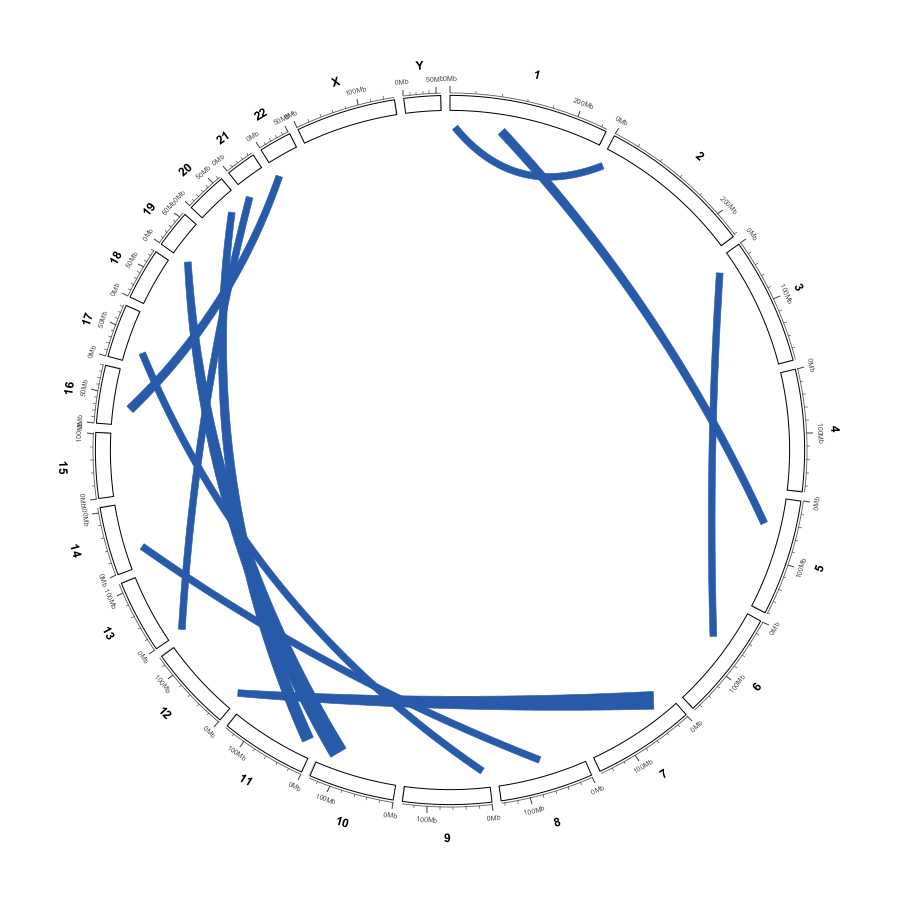
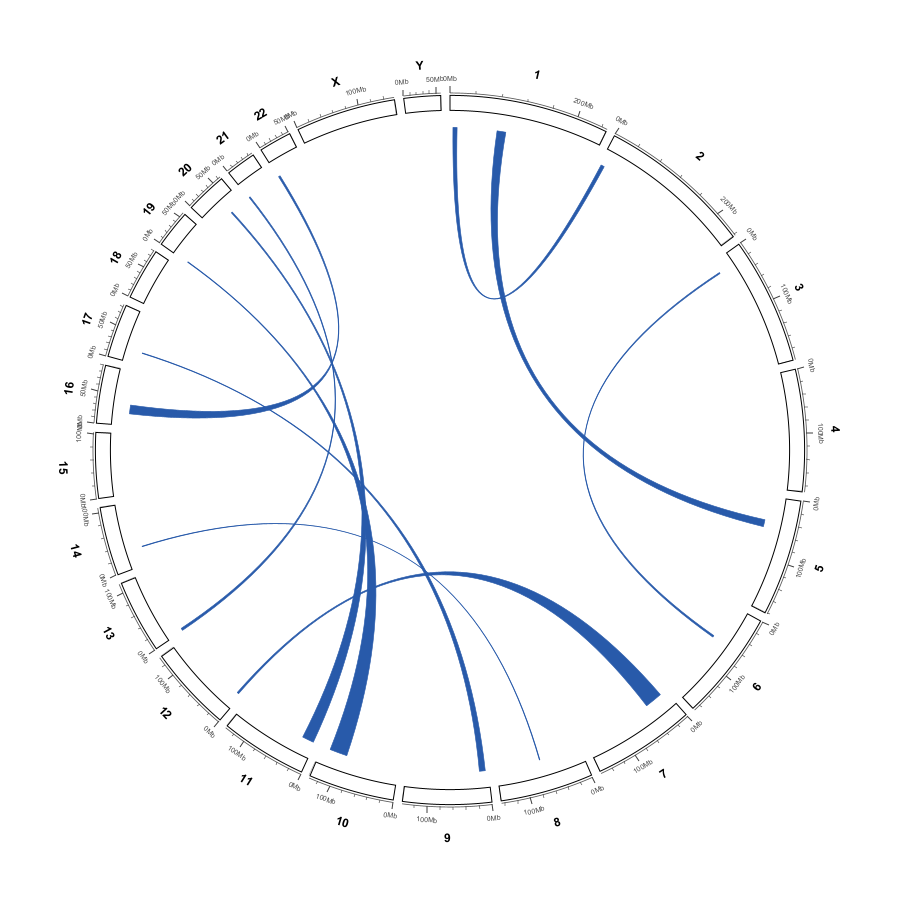
Circular links: draw ribbons exactly like circlize circos.link
Previous constant-pixel-width band looked wrong. Port circlize's real geometry (R/link.R getQuadraticPoints + rbind(d1,r2,rev(d2),r1)): the ribbon is a polygon bounded by two independent quadratic Bezier edges that bow toward the centre, closed by the two end arcs. Width at each end is the interval's own arc, so 1 bp anchors taper to a tip (circlize behaviour) instead of a blunt stub. Heights use circlize defaults h=auto, h.ratio=0.5, w=1; twist maps to circlize inverse (swap edge pairing). Bezier radius/purity now apply to stroked chords only. Docs + four screenshots regenerated to match.

diff --git a/src/main/java/org/broad/igv/ui/panel/CircularViewPanel.java b/src/main/java/org/broad/igv/ui/panel/CircularViewPanel.java
@@ -3384,24 +3384,17 @@ public class CircularViewPanel extends JPanel implements IGVEventObserver {
             g2.setColor(new Color(base.getRed(), base.getGreen(), base.getBlue(), alpha));
 
             if (ribbon) {
-                double[] e1 = ribbonEnd(a1s, a1e, s.linkRibbonMinDeg);
-                double[] e2 = ribbonEnd(a2s, a2e, s.linkRibbonMinDeg);
-                boolean wantStart = s.linkArrow == 1 || s.linkArrow == 3;
-                boolean wantEnd = s.linkArrow == 2 || s.linkArrow == 3;
-                // An interval end gets the flared head built into the polygon; a point end of a
-                // mixed link gets a thin triangle on the curve instead.
-                boolean bandArrowStart = wantStart && !point1;
-                boolean bandArrowEnd = wantEnd && !point2;
-                Path2D.Double path = ribbonBand(cx, cy, rEnd, rBez,
-                        clamp01(s.linkBezierPurity), e1, e2, s.linkTwist,
-                        bandArrowStart, bandArrowEnd, Math.max(3.0, s.linkArrowLength));
+                // circlize-style ribbon: two quadratic-Bezier edges + the two end arcs. The raw
+                // interval spans are used (no min-width floor) so a 1 bp anchor tapers to a point,
+                // exactly like circos.link.
+                Path2D.Double path = ribbonBand(cx, cy, rEnd, s.linkTwist, a1s, a1e, a2s, a2e);
                 g2.fill(path);
-                if (s.linkArrow > 0 && (point1 || point2)) {
+                if (s.linkArrow > 0) {
+                    double[] e1 = ribbonEnd(a1s, a1e, s.linkRibbonMinDeg);
+                    double[] e2 = ribbonEnd(a2s, a2e, s.linkRibbonMinDeg);
                     drawLinkArrows(g2, cx, cy, rEnd, e1, e2, point1, point2, s);
                 }
                 if (s.linkRibbonStroke && s.linkRibbonStrokeThickness > 0) {
-                    // A tapered band is only a few pixels wide mid-span; the outline keeps that
-                    // thin section from washing out against the white background.
                     int strokeAlpha = Math.min(255, alpha + 85);
                     g2.setStroke(new BasicStroke(s.linkRibbonStrokeThickness,
                             BasicStroke.CAP_ROUND, BasicStroke.JOIN_ROUND));
@@ -3481,74 +3474,88 @@ public class CircularViewPanel extends JPanel implements IGVEventObserver {
     }
 
     /**
-     * Filled ribbon built the way circlize's {@code circos.link} builds it, but with a CONSTANT
-     * PIXEL width along its whole length (a true band) instead of a constant *angular* width.
+     * Filled ribbon built the way circlize's {@code circos.link} builds it (see circlize
+     * {@code R/link.R}: {@code getQuadraticPoints()} plus the {@code rbind(d1, r2, rev(d2), r1)}
+     * polygon assembly), so it looks like a real Circos link instead of a constant-width band.
      *
-     * <p>A constant angular width is what made every long link pinch to a needle at mid-span:
-     * the band dips toward the centre, and a fixed angle there spans fewer pixels, so the middle
-     * collapsed to a point. Here we take the ribbon's centreline — the bisector bezier between the
-     * two interval centres, the same control point the chords use — and offset it by +/– half the
-     * band width perpendicular to the curve. The band therefore keeps its width no matter how deep
-     * the chord dips. When the two ends have different widths the band tapers between them (a
-     * trapezoid) rather than hourglassing.</p>
-     *
-     * @param e1       {start,end} angular extent of the first interval (already min-width adjusted)
-     * @param e2       same for the second interval
-     * @param twist    gently narrows the band to a waist at mid-span (floored so it never closes)
-     * @param arrowStart/arrowEnd  flare the end into a triangular head that touches the ring
+     * <p>The body is a polygon bounded by <b>two independent quadratic Bezier edges</b> that bow
+     * toward the centre, closed by the two <b>end arcs</b>. Each end's width is the interval's own
+     * angular span, so a 1 bp anchor tapers to a sharp tip (circlize's behaviour) rather than a
+     * blunt rectangle. circlize's defaults are used: {@code h} auto, {@code h.ratio = 0.5},
+     * {@code w = 1}. The two edges connect the crossed endpoints ({@code P1b&lt;-&gt;P2a},
+     * {@code P1a&lt;-&gt;P2b}); {@code twist} flips that pairing (circlize's {@code inverse}).</p>
      */
-    static Path2D.Double ribbonBand(double cx, double cy, double rEnd, double rBez,
-                                    double purity, double[] e1, double[] e2, boolean twist,
-                                    boolean arrowStart, boolean arrowEnd, double arrLen) {
-        double a1s = e1[0], a1e = e1[1], a2s = e2[0], a2e = e2[1];
-        double m1 = (a1s + a1e) / 2.0, m2 = (a2s + a2e) / 2.0;   // centre of each interval arc
+    static Path2D.Double ribbonBand(double cx, double cy, double rEnd, boolean twist,
+                                    double a1s, double a1e, double a2s, double a2e) {
+        Point2D p1a = polar(cx, cy, rEnd, a1s);   // interval 1 start
+        Point2D p1b = polar(cx, cy, rEnd, a1e);   // interval 1 end
+        Point2D p2a = polar(cx, cy, rEnd, a2s);   // interval 2 start
+        Point2D p2b = polar(cx, cy, rEnd, a2e);   // interval 2 end
+        boolean inverse = twist;
 
-        // An arrow end pulls the whole end of the spine back by arrLen so the head can flare out
-        // to the ring (circos.link's big.arrow: the band narrows into a tip touching rou2).
-        double rFrom = arrowStart ? Math.max(4, rEnd - arrLen) : rEnd;
-        double rTo   = arrowEnd   ? Math.max(4, rEnd - arrLen) : rEnd;
-
-        // Centreline: from the centre of interval 1 to the centre of interval 2, with the same
-        // radial bezier control the chords use.
-        Point2D S0 = polar(cx, cy, rFrom, m1);
-        Point2D S2 = polar(cx, cy, rTo, m2);
-        Point2D Cs = linkControl(cx, cy, rEnd, rBez, m1, m2, purity);
-
-        // Half widths (px) at each end, taken from the real arc length of the interval. The
-        // min-degree floor in ribbonEnd already guarantees a visible width for 1 bp anchors.
-        double hw0 = Math.max(0.75, arcWidthPx(e1, rEnd) / 2.0);
-        double hw2 = Math.max(0.75, arcWidthPx(e2, rEnd) / 2.0);
-
-        final int N = 48;
-        Point2D[] top = new Point2D[N + 1], bot = new Point2D[N + 1];
-        for (int i = 0; i <= N; i++) {
-            double t = i / (double) N;
-            Point2D p = quadAt(S0, Cs, S2, t);
-            Point2D d = quadDeriv(S0, Cs, S2, t);
-            double len = Math.hypot(d.getX(), d.getY());
-            if (len < 1e-9) { d = new Point2D.Double(1, 0); len = 1; }
-            double nx = -d.getY() / len, ny = d.getX() / len;          // unit normal to the spine
-            double hw = hw0 + (hw2 - hw0) * t;                         // trapezoid between ends
-            if (twist) hw *= Math.max(0.4, 1.0 - 0.6 * Math.sin(Math.PI * t));  // gentle waist
-            top[i] = new Point2D.Double(p.getX() + nx * hw, p.getY() + ny * hw);
-            bot[i] = new Point2D.Double(p.getX() - nx * hw, p.getY() - ny * hw);
-        }
+        Point2D e1End = inverse ? p2b : p2a;
+        Point2D e2End = inverse ? p2a : p2b;
+        List<Point2D> e1 = quadEdge(cx, cy, rEnd, p1b, e1End);
+        List<Point2D> e2 = quadEdge(cx, cy, rEnd, p1a, e2End);
 
         Path2D.Double path = new Path2D.Double();
-        path.moveTo(top[0].getX(), top[0].getY());
-        for (int i = 1; i <= N; i++) path.lineTo(top[i].getX(), top[i].getY());
-        if (arrowEnd) {
-            // Flared head: the band narrows into a single tip that touches the ring.
-            Point2D tip = polar(cx, cy, rEnd, m2);
-            path.lineTo(tip.getX(), tip.getY());
-        }
-        for (int i = N; i >= 0; i--) path.lineTo(bot[i].getX(), bot[i].getY());
-        if (arrowStart) {
-            Point2D tip = polar(cx, cy, rEnd, m1);
-            path.lineTo(tip.getX(), tip.getY());
-        }
+        path.moveTo(e1.get(0).getX(), e1.get(0).getY());
+        for (int i = 1; i < e1.size(); i++) path.lineTo(e1.get(i).getX(), e1.get(i).getY());
+        // arc along interval 2: from the first edge's end to the other end of interval 2
+        double arc2From = inverse ? a2e : a2s;
+        double arc2To = inverse ? a2s : a2e;
+        appendArcFrac(path, cx, cy, rEnd, arc2From, arc2To);
+        // second edge reversed: from its interval-2 end back to p1a
+        for (int i = e2.size() - 1; i >= 0; i--) path.lineTo(e2.get(i).getX(), e2.get(i).getY());
+        // arc along interval 1
+        appendArcFrac(path, cx, cy, rEnd, a1s, a1e);
         path.closePath();
         return path;
+    }
+
+    /**
+     * One quadratic-Bezier edge from {@code A} to {@code B} (both on the ring at {@code rEnd})
+     * that bows toward the centre. Mirrors circlize's {@code getQuadraticPoints}: control height
+     * {@code h = r*(1 - 0.5*cos(beta/2))}, rational weight {@code w = 1}, bow toward the centre.
+     */
+    static List<Point2D> quadEdge(double cx, double cy, double rEnd, Point2D A, Point2D B) {
+        double mx = (A.getX() + B.getX()) / 2.0;
+        double my = (A.getY() + B.getY()) / 2.0;
+        double angA = Math.atan2(A.getY() - cy, A.getX() - cx);
+        double angB = Math.atan2(B.getY() - cy, B.getX() - cx);
+        double dAng = Math.abs(angB - angA);
+        if (dAng > Math.PI) dAng = 2 * Math.PI - dAng;
+        double beta = Math.toDegrees(dAng);
+        double h = rEnd * (1 - 0.5 * Math.cos(Math.toRadians(beta / 2.0)));       // h_auto
+        double h2 = h - rEnd * (1 - Math.cos(Math.toRadians(beta / 2.0)));
+        double w = 1.0;
+        double p1y = (1 + w) / w * h2;
+        // perpendicular pointing toward the ring centre
+        double nx = cx - mx, ny = cy - my;
+        double nlen = Math.hypot(nx, ny);
+        if (nlen < 1e-9) { nx = 0; ny = 0; } else { nx /= nlen; ny /= nlen; }
+        double pcx = mx + nx * p1y, pcy = my + ny * p1y;
+        final int N = 48;
+        List<Point2D> out = new ArrayList<>(N);
+        for (int i = 0; i < N; i++) {
+            double t = i / (double) (N - 1), u = 1 - t;
+            double denom = u * u + 2 * t * u * w + t * t;
+            double x = (u * u * A.getX() + 2 * t * u * w * pcx + t * t * B.getX()) / denom;
+            double y = (u * u * A.getY() + 2 * t * u * w * pcy + t * t * B.getY()) / denom;
+            out.add(new Point2D.Double(x, y));
+        }
+        return out;
+    }
+
+    /** Append an arc along the ring from fraction {@code f0} to {@code f1}. */
+    private static void appendArcFrac(Path2D.Double path, double cx, double cy, double r,
+                                      double f0, double f1) {
+        double span = Math.abs(f1 - f0) * 360.0;
+        int steps = Math.max(2, (int) Math.round(span / 2.0));   // ~2 degrees per step
+        for (int i = 1; i <= steps; i++) {
+            Point2D p = polar(cx, cy, r, f0 + (f1 - f0) * i / (double) steps);
+            path.lineTo(p.getX(), p.getY());
+        }
     }
 
     /** Arc length (px) of an interval end [{@code start,end}] fraction-of-circle at radius r. */

diff --git a/docs/circular_links.rst b/docs/circular_links.rst
@@ -38,12 +38,10 @@ Visibility and geometry
        govern the chord geometry.
    * - ``Twist ribbons``
      - off
-     - Swap which end of the second interval the two ribbon edges connect to
-       (Circos ``twist``).  In myIGV twist is implemented as a **mild waist
-       narrowing** that brings the band to ``0.4×`` of its full width at the
-       midpoint (``sin`` profile), not a full pinch.  It is **off by default**
-       so the ribbon keeps a constant pixel width along its whole length; turn
-       it on only for the classic twisted-ribbon look.
+     - Join the two ribbon edges the other way round — interval 1's start to
+       interval 2's start instead of to its end (circlize ``inverse``).  The
+       ribbon is still a smooth band; only which edges meet changes.  **Off by
+       default**.
    * - ``Colour by chromosome``
      - off
      - Colour each link by its source chromosome instead of using one link
@@ -59,9 +57,8 @@ Visibility and geometry
    :alt: Dense blue filled ribbon links inside a whole-genome circular ring
    :width: 65%
 
-   ``Ribbon (filled bands)`` on: each link is a filled band with a constant
-   pixel width along its length.  ``Twist ribbons`` (default off) optionally
-   narrows the waist to ``0.4×`` at the midpoint without ever closing it.
+   ``Ribbon (filled bands)`` on: every link is a curved band that bows toward
+   the centre and tapers at its ends, exactly like Circos ``ribbon=yes``.
 
 .. figure:: images/circular_links_straight.png
    :alt: Straight chord links across a circular ring
@@ -73,16 +70,15 @@ Visibility and geometry
 Ribbon body
 -----------
 
-The ribbon is drawn as a **constant-pixel-width band** swept along a quadratic
-Bezier centreline spine.  The spine runs from the midpoint of the first
-interval, through a single control point on the angle bisector at
-``linkBezierRadius``, to the midpoint of the second interval; at every sample
-the band is offset by ``±`` half its width perpendicular to the spine.  This is
-what stops the band pinching to a point in the middle — a fixed *angular* width
-would do exactly that whenever the spine dives toward the centre.  A
-whole-genome BEDPE anchor is often only a few kilobases (sub-pixel on the
-ring), so a minimum angular width is still applied at each end to keep the
-anchor visible.
+The ribbon is built the way circlize's ``circos.link`` builds it (see the
+circlize R source, ``R/link.R``): the body is a polygon bounded by **two
+independent quadratic Bézier edges** that bow toward the centre, closed by the
+two **end arcs**.  Each end's width is the interval's own arc on the ring, so a
+whole-genome BEDPE anchor (often only a few kilobases, hence sub-pixel on the
+ring) tapers to a fine tip instead of a blunt stub, while a wide interval gives
+a wide band.  The bow height follows circlize's automatic ``h``
+(``h.ratio = 0.5``, ``w = 1``); two anchors on opposite sides of the ring draw a
+near-straight chord through the centre.
 
 .. list-table::
    :header-rows: 1
@@ -98,17 +94,19 @@ anchor visible.
        rings.
    * - ``Bezier radius (0-1)…``
      - ``0.8``
-     - Radial position of the Bezier control point (Circos
-       ``bezier_radius``).  ``0`` draws a straight chord; ``1`` pushes the
-       control point to the centre.  Range ``0 – 1``.
+     - Radial position of the Bezier control point of a **stroked** link
+       (Circos ``bezier_radius``).  ``0`` draws a straight chord; ``1`` pushes
+       the control point to the centre.  Range ``0 – 1``.  Filled ribbons use
+       circlize's automatic bow height instead.
    * - ``Crest (0-1)…``
      - ``0.5``
      - Adds control points that make links meet the ideogram perpendicularly
        (Circos ``crest``).  ``0`` disables.  Range ``0 – 1``.
    * - ``Min ribbon width (deg)…``
      - ``1.2°``
-     - Minimum angular width of a ribbon end.  Without it, links with tiny
-       anchors would be invisible.  Minimum ``0``.
+     - Smallest angular width used when sizing a ribbon's **arrow head**.  The
+       ribbon body now tapers to the true interval width, so this only keeps a
+       tiny anchor's arrow from vanishing.  Minimum ``0``.
    * - ``Ribbon transparency (0 = solid)…``
      - ``0``
      - ``0`` is fully opaque; ``255`` is invisible.  Internally stored as an
@@ -122,18 +120,17 @@ anchor visible.
      - ``5000``
      - Cap on links drawn per frame (Circos ``record_limit``).  Minimum ``1``.
 
-An internal ``linkBezierPurity`` of ``1.0`` holds the control point at the
-purely radial (angle-bisector) position, which keeps the band at full width;
-lower values tilt it toward the Cartesian midpoint.  It has no menu item.  The
-control point's radial position is set by the ``Bezier radius (0-1)…`` menu
-(default ``0.8``).
+An internal ``linkBezierPurity`` of ``1.0`` holds a **stroked** chord's control
+point at the purely radial (angle-bisector) position; lower values tilt it
+toward the Cartesian midpoint.  It has no menu item and does not affect filled
+ribbons (those follow circlize's ``getQuadraticPoints`` geometry).
 
 .. figure:: images/ribbon_single.png
-   :alt: One ribbon link showing a uniform pixel-width band along its length
+   :alt: One Circos ribbon link between two intervals, bowing toward the centre
    :width: 55%
 
-   A single ribbon.  The band keeps a constant pixel width along its length —
-   it never pinches to a needle at the midpoint.
+   A single interval-to-interval ribbon: two Bézier edges bowing toward the
+   centre, closed by the two end arcs and tapering where the anchors are narrow.
 
 .. figure:: images/circular_links_ribbon_mixed.png
    :alt: Mixed point-anchor and interval-anchor ribbons in one ring

diff --git a/docs/parameter_reference.rst b/docs/parameter_reference.rst
@@ -293,10 +293,9 @@ Links layer — right-click a Links row
    * - ``Twist ribbons``
      - off
      - on / off
-     - Narrow the ribbon at its waist to ``0.4×`` width at the midpoint
-       (``sin`` profile) rather than keeping a constant width.  Default is
-       **off**; with it off the ribbon keeps a constant pixel width along its
-       whole length.
+     - Join the two ribbon edges the other way round (circlize ``inverse``):
+       interval 1's start meets interval 2's start instead of its end.  The band
+       stays smooth; only which edges connect changes.  Default is **off**.
    * - ``Colour by chromosome``
      - off
      - on / off
@@ -336,8 +335,9 @@ Links layer — right-click a Links row
    * - ``Bezier radius (0-1)… (0.8)``
      - ``0.8``
      - ``0.0``–``1.0``
-     - Radial position of the bezier control point; ``0`` gives a straight
-       chord (Circos ``bezier_radius``).
+     - Radial position of the bezier control point of a **stroked** link; ``0``
+       gives a straight chord (Circos ``bezier_radius``).  Filled ribbons use
+       circlize's automatic bow height.
    * - ``Crest (0-1)… (0.5)``
      - ``0.5``
      - ``0.0``–``1.0``
@@ -346,8 +346,9 @@ Links layer — right-click a Links row
    * - ``Min ribbon width (deg)… (1.2)``
      - ``1.2``
      - minimum ``0``
-     - Minimum angular width of a ribbon end in degrees.  Real BEDPE anchors
-       are often only a few kb and would be sub-pixel on a whole-genome ring.
+     - Smallest angular width used to size a ribbon's arrow head.  The ribbon
+       body tapers to the true interval width, so real BEDPE anchors (often a
+       few kb, sub-pixel on a whole-genome ring) taper to a tip, not a stub.
    * - ``Ribbon transparency (0 = solid)… (0)``
      - ``0``
      - ``0``–``255``
@@ -368,9 +369,10 @@ Links layer — right-click a Links row
 
 .. tip::
 
-   ``linkBezierPurity`` (default ``1.0``), ``geneFlankBp`` (``2000``) and
-   ``linkRibbonStrokeThickness`` (``0.6``) are internal constants with no
-   dedicated menu item; they are listed here for completeness only.
+   ``linkBezierPurity`` (default ``1.0``; stroked chords only), ``geneFlankBp``
+   (``2000``) and ``linkRibbonStrokeThickness`` (``0.6``) are internal
+   constants with no dedicated menu item; they are listed here for completeness
+   only.
 
 Heatmap layer — right-click a Heatmap row
 -----------------------------------------

diff --git a/docs/whats_new.rst b/docs/whats_new.rst
@@ -147,10 +147,11 @@ v1.0.2 tag.
        layer kind.
      - :doc:`circular_data_tracks`
    * - circlize-style ribbon links
-     - Filled constant-pixel-width ribbons swept along a quadratic centreline
-       (so they never pinch to a point), with a guaranteed minimum end width,
-       optional twist, crest, transparency, and optional directional arrow
-       heads.
+     - Filled ribbons built exactly like circlize ``circos.link``: a polygon
+       bounded by two quadratic Bezier edges that bow toward the centre and are
+       closed by the two end arcs, so wide intervals give wide bands and 1 bp
+       anchors taper to a tip.  Optional twist (``inverse``), crest,
+       transparency and directional arrow heads.
      - :doc:`circular_links`
    * - Genomic heatmap ring
      - Equal-width cells (``posTransform.default``), 4-segment comb connectors

diff --git a/docs/screenshots.rst b/docs/screenshots.rst
@@ -194,7 +194,8 @@ Links, ribbons and arrows
      - The same links as straight chords (``Bezier radius`` at ``0``).
      - :doc:`circular_links`
    * - ``ribbon_single.png``
-     - A single ribbon showing a uniform pixel-width band along its length.
+     - A single Circos ribbon (two Bézier edges) bowing toward the centre and
+       tapering at the ends.
      - :doc:`circular_links`
    * - ``circular_links_ribbon_mixed.png``
      - Mixed point and interval endpoints in one links layer.
